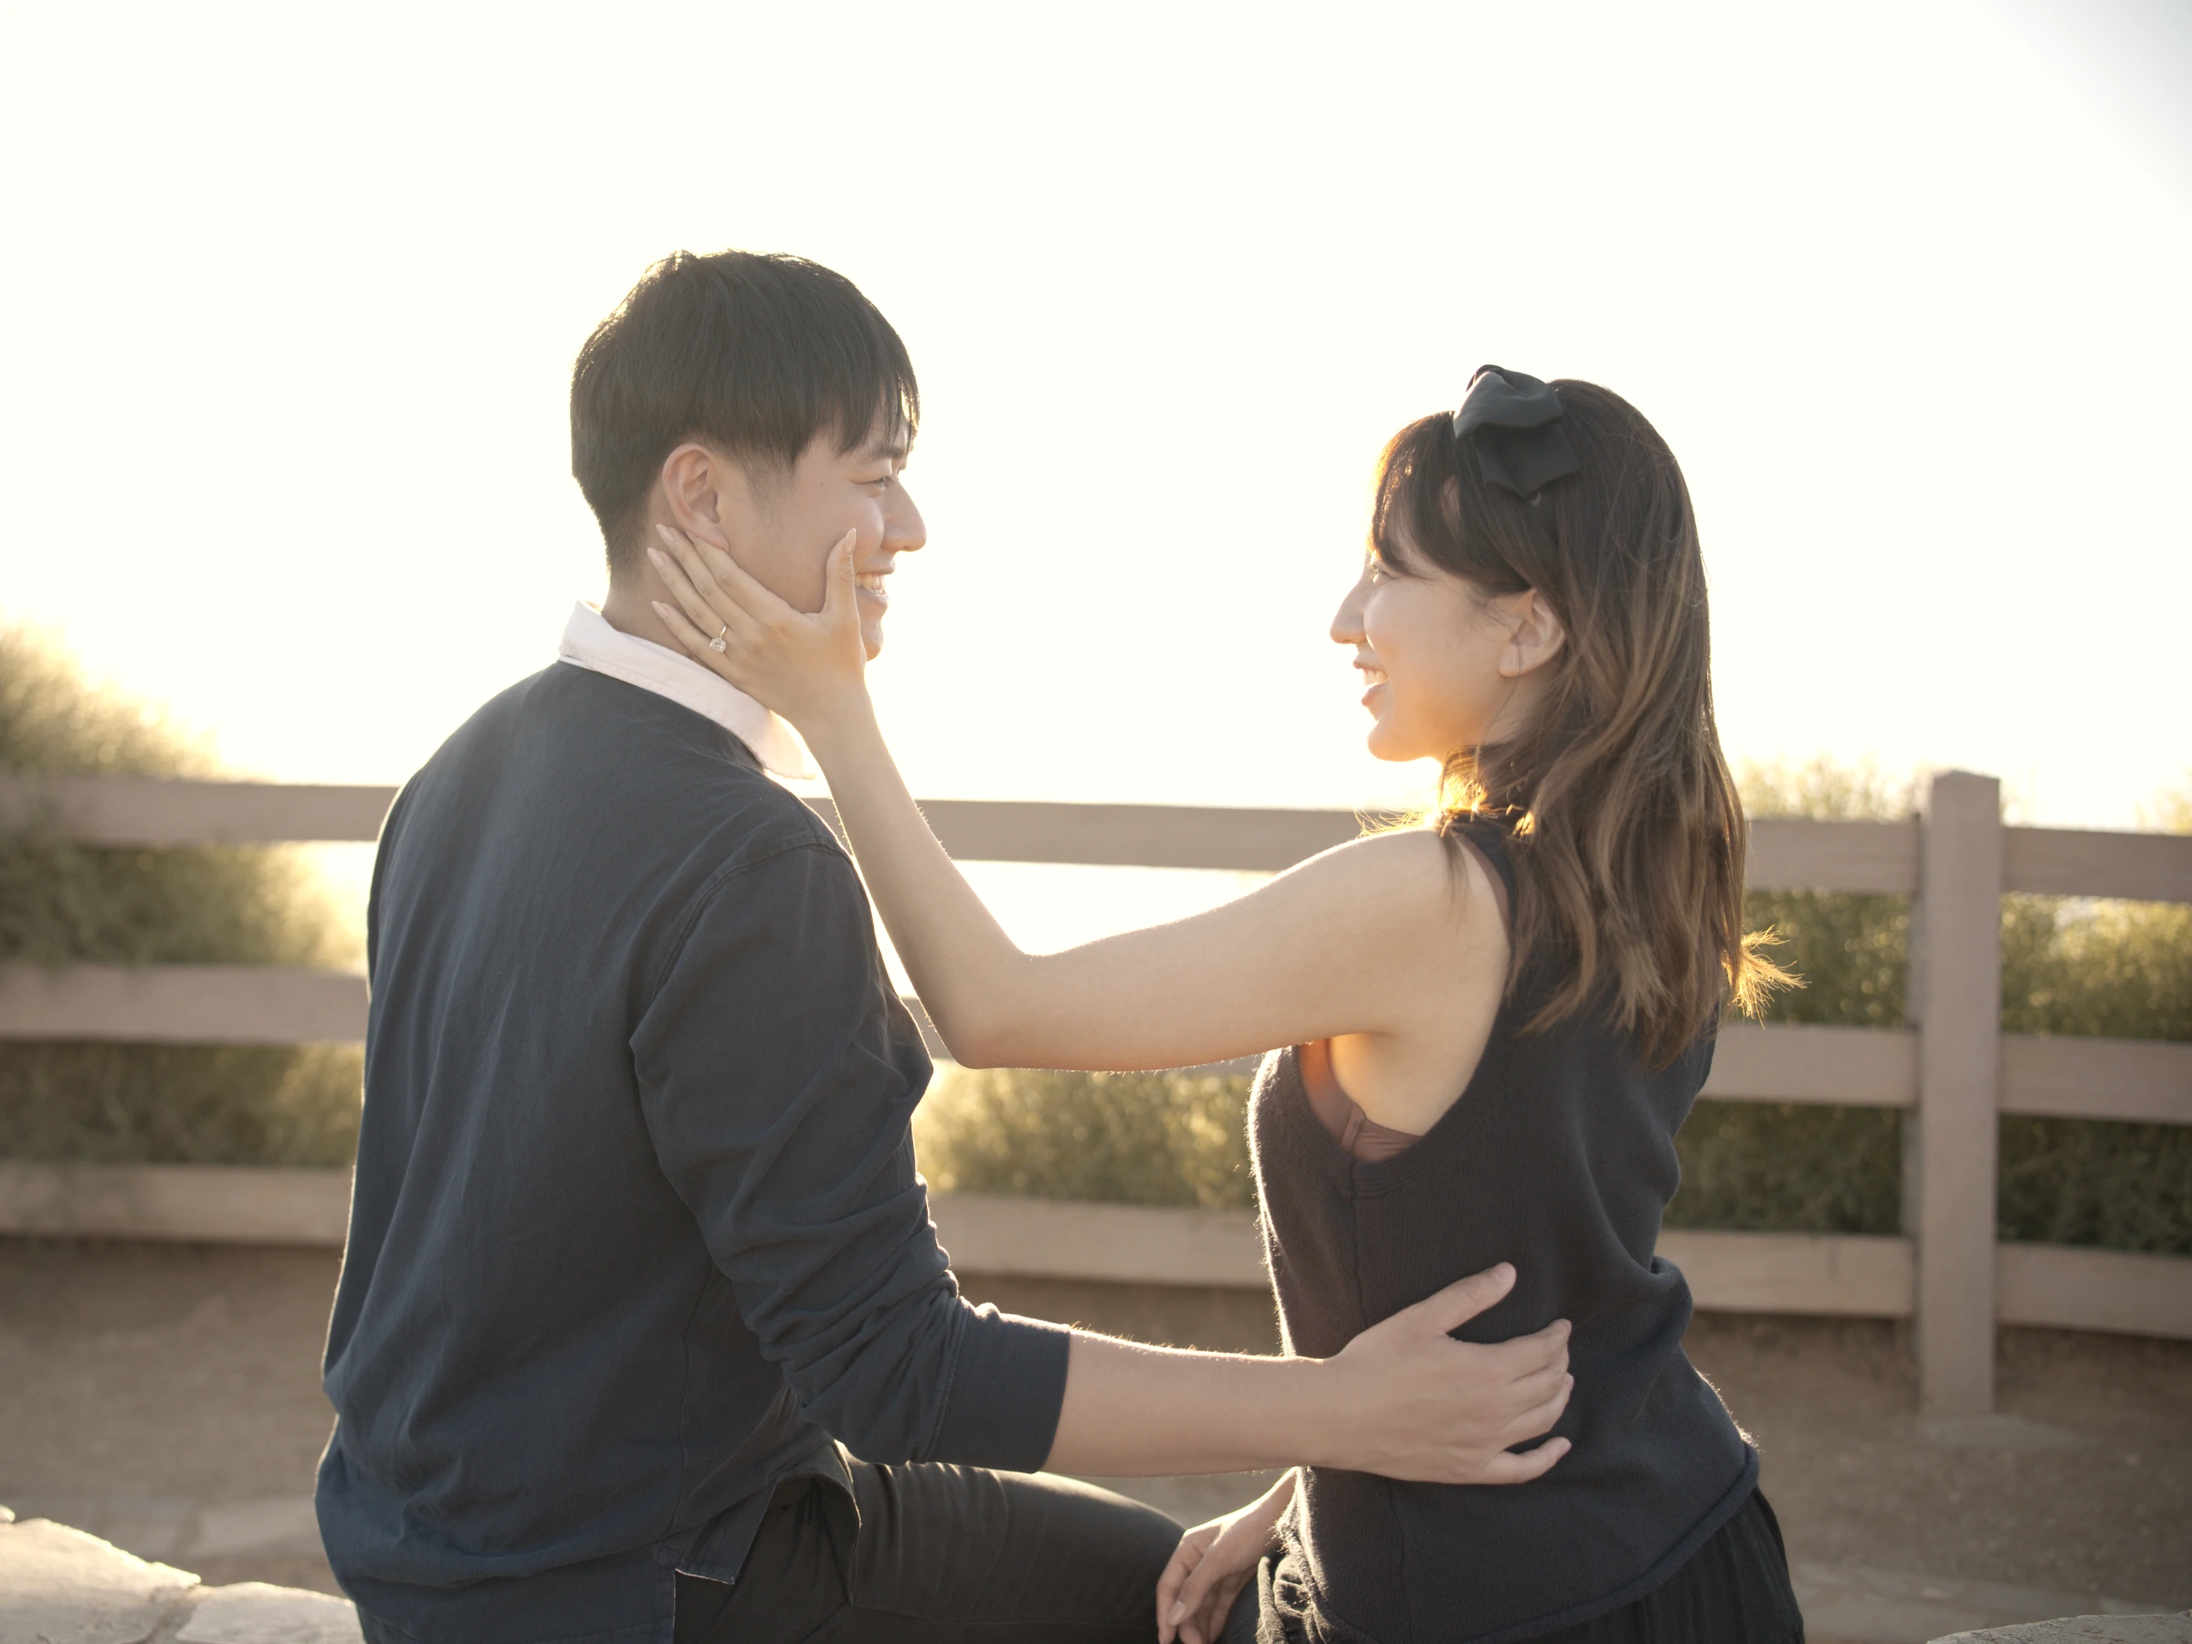
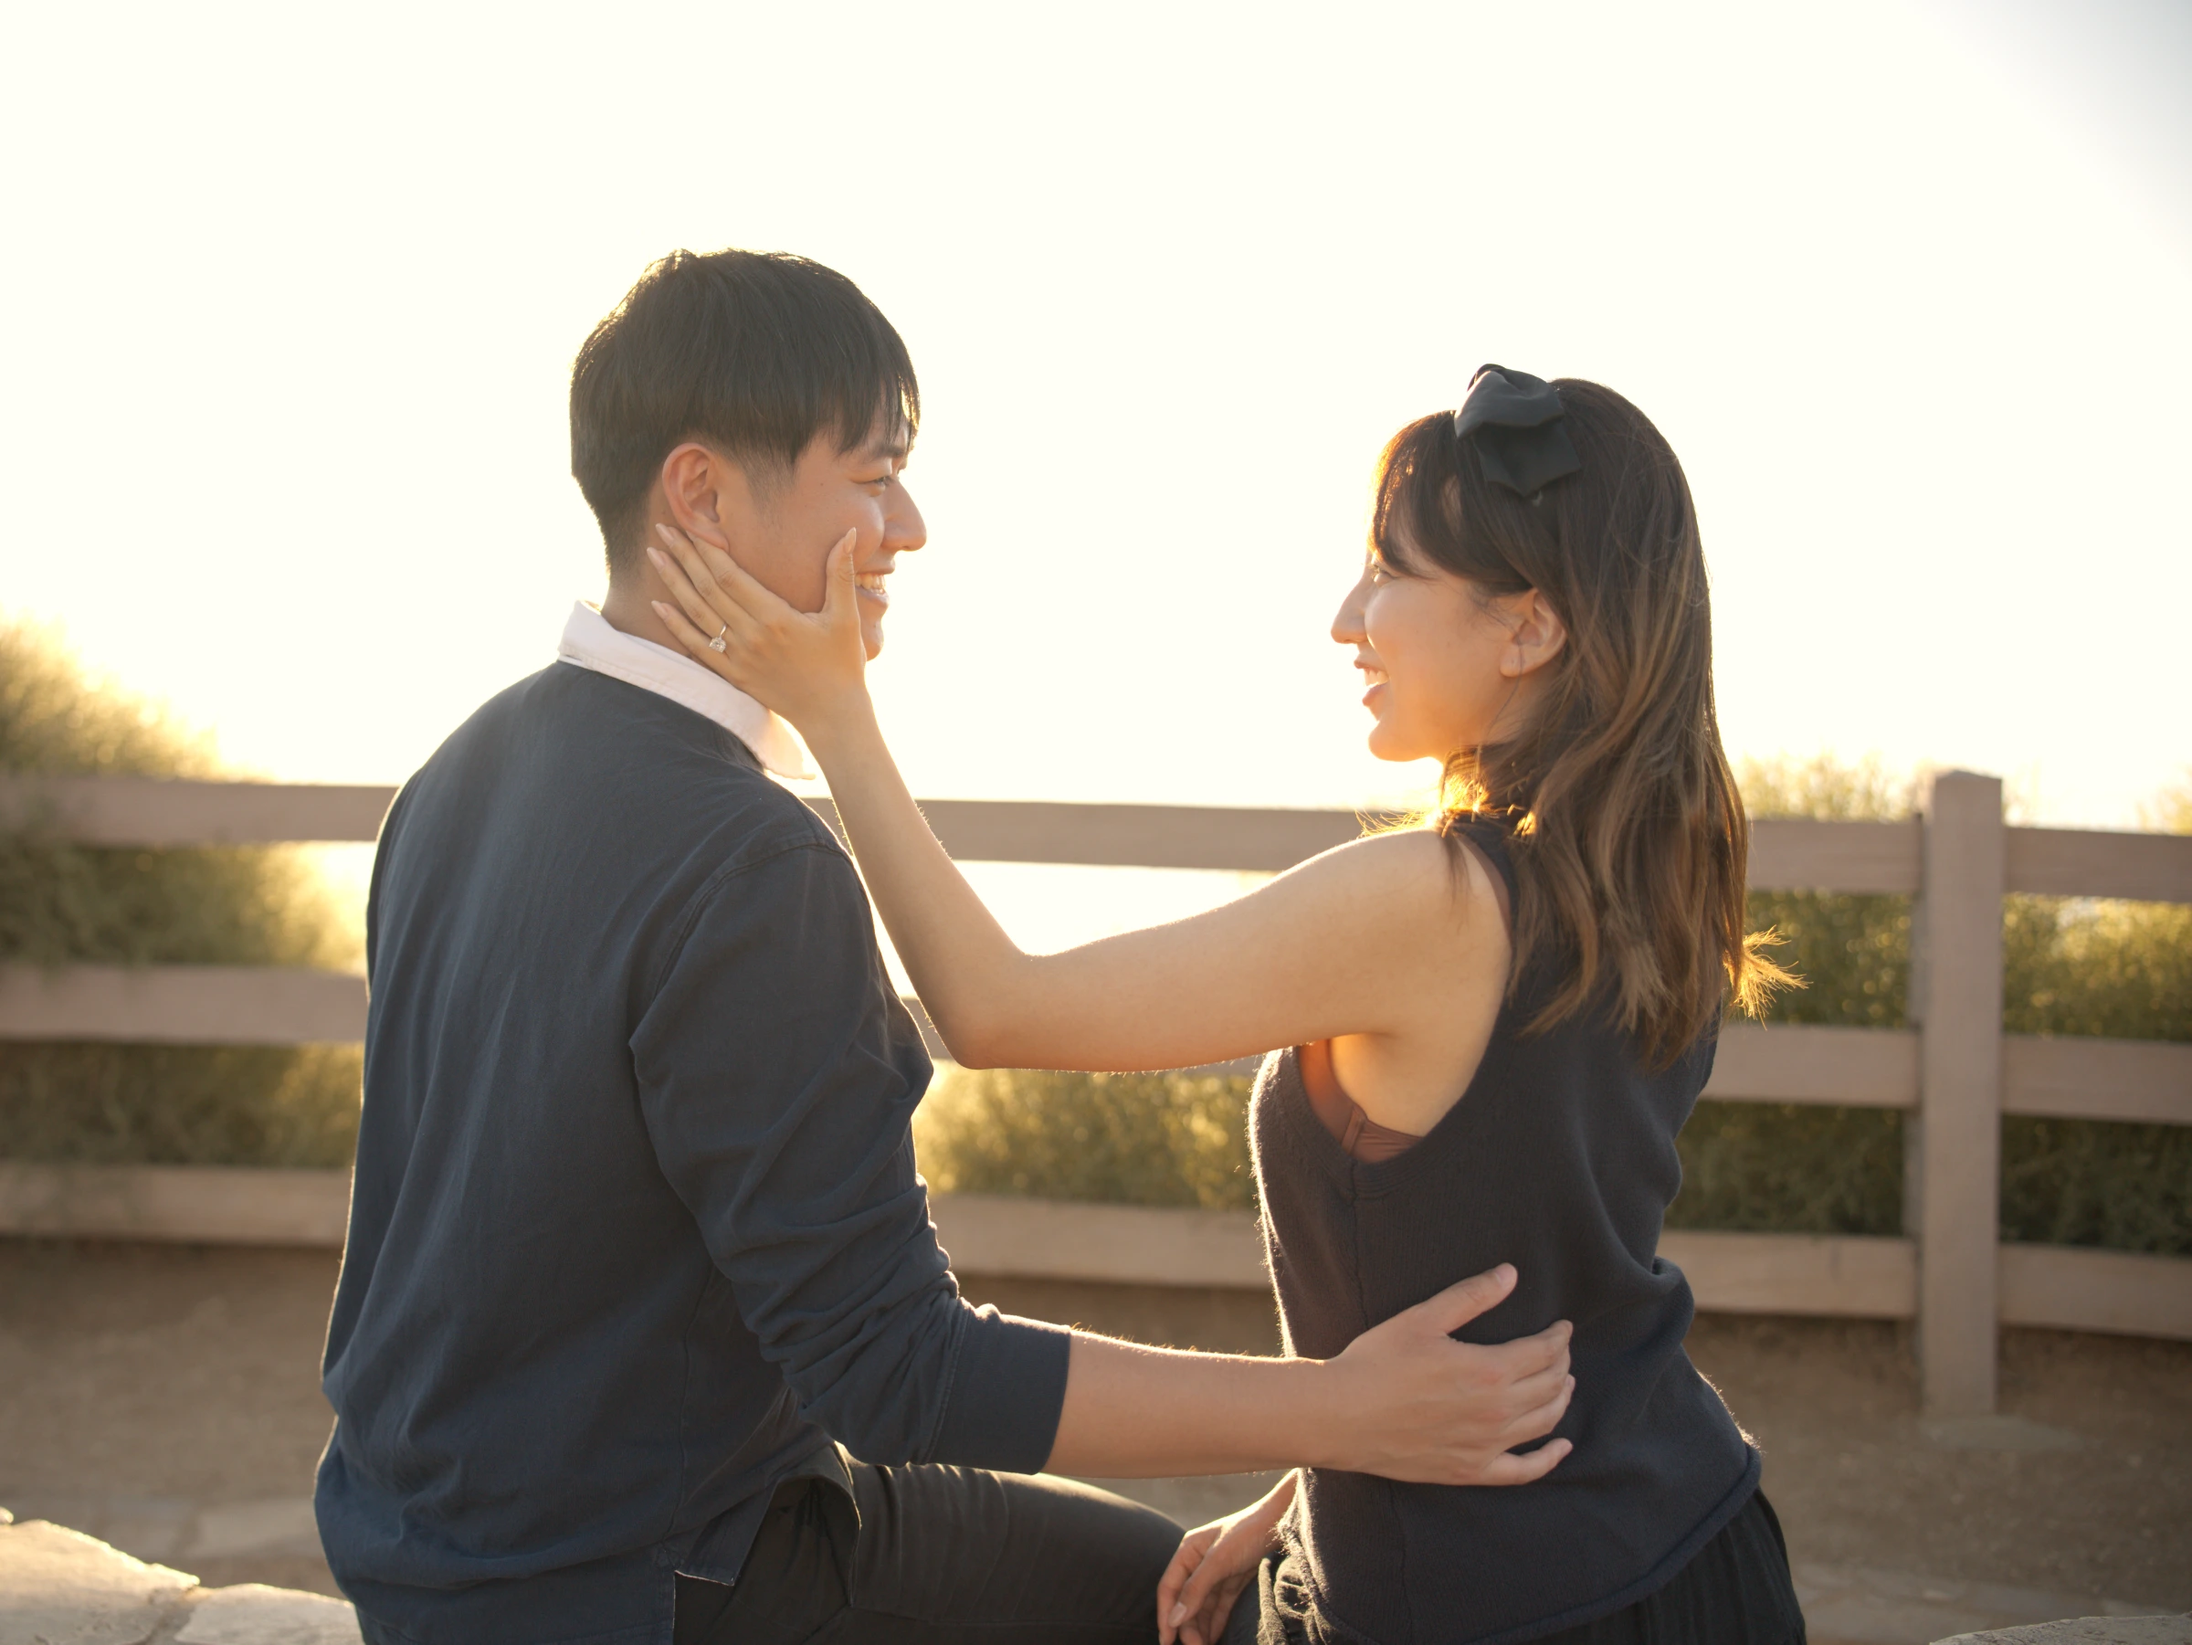
Publish 783b85e

diff --git a/index.html b/index.html
@@ -110,7 +110,7 @@
     <section id="home" class="page" data-page="home" aria-label="Home">
       <div class="hero">
         <figure class="hero-photo">
-          <img src="assets/images/photos/hero-laughing-lighthouse.webp?v=raw1" alt="Claire and Paul hugging and laughing by the fence, with the Point Vicente lighthouse behind them" class="zoomable" width="2400" height="1600" fetchpriority="high">
+          <img src="assets/images/photos/hero-laughing-lighthouse.webp?v=raw2" alt="Claire and Paul hugging and laughing by the fence, with the Point Vicente lighthouse behind them" class="zoomable" width="2400" height="1600" fetchpriority="high">
         </figure>
         <h1 class="names"><span>Claire</span> <span class="plus">+</span> <span>Paul</span></h1>
         <p class="date">Sunday, March 7, 2027</p>
@@ -150,7 +150,7 @@
     <section id="story" class="page" data-page="story" aria-label="Our story" hidden>
       <div class="block story">
         <h2>How it started</h2>
-        <figure class="story-photo"><img src="assets/images/photos/early-days-2021.webp?v=raw1" alt="Claire and Paul smiling cheek to cheek in a car during the early days of their relationship" class="zoomable" loading="lazy"><figcaption class="photo-credit">Us in 2021.</figcaption></figure>
+        <figure class="story-photo"><img src="assets/images/photos/early-days-2021.webp?v=raw2" alt="Claire and Paul smiling cheek to cheek in a car during the early days of their relationship" class="zoomable" loading="lazy"><figcaption class="photo-credit">Us in 2021.</figcaption></figure>
         <p>Who would've thought that a little dating app called Hinge would lead us all the way to the altar? Our story began in January 2021, during a time when the world was a little upside down! Claire was living in California, Paul was in Texas, and somehow, despite being over a thousand miles apart, they found each other. What started as a few messages on Hinge quickly turned into hours of conversations, late nights on Discord, and slowly becoming each other's favorite person to talk to.</p>
         <p>With COVID and Paul's mom battling lung cancer at the time, meeting in person wasn't exactly easy. But even from a distance, Paul always found ways to make Claire feel special. Before they had even met, he asked her to be exclusive by surprising her with champagne and dinner delivered to her door. (Yes, he was already setting the bar pretty high.)</p>
         <p>A few months later, Paul bought Claire a plane ticket to Lubbock, Texas, so they could finally meet in person. And let's just say Paul was a little nervous. When Claire finally saw him at the airport, he was exactly the same person she'd gotten to know online... just a lot taller! Meanwhile, Paul was so nervous that while standing at baggage claim, he asked Claire, "Did you check in your bags?" even though she had already landed. HAHAHA.</p>
@@ -162,7 +162,7 @@
         <p>Looking back, we truly believe God brought us together at just the right time. What started with a simple swipe grew into a love built on patience, faith, countless miles, and a whole lot of laughter.</p>
         <p>And after all those years of saying goodbye, we finally get today "I do."</p>
         <p>We can't wait to celebrate this next chapter with all of you!</p>
-        <figure class="story-photo"><img src="assets/images/photos/heart.webp?v=raw1" alt="Claire and Paul making a heart with their arms against the sunset" class="zoomable"></figure>
+        <figure class="story-photo"><img src="assets/images/photos/heart.webp?v=raw2" alt="Claire and Paul making a heart with their arms against the sunset" class="zoomable"></figure>
       </div>
     </section>
 
@@ -192,12 +192,12 @@
       <div class="block block-wide">
         <h2>The day he asked</h2>
         <div class="gallery">
-          <img src="assets/images/photos/proposal.webp?v=raw1" alt="Paul on one knee as Claire holds her bouquet" class="zoomable wide">
-          <img src="assets/images/photos/ring.webp?v=raw1" alt="Claire's engagement ring" class="zoomable">
-          <img src="assets/images/photos/hug.webp?v=raw1" alt="Claire hugging Paul by the lighthouse" class="zoomable">
-          <img src="assets/images/photos/cheek.webp?v=raw1" alt="Claire touching Paul's cheek at sunset" class="zoomable">
-          <img src="assets/images/photos/golden.webp?v=raw1" alt="Claire and Paul in the golden light" class="zoomable">
-          <img src="assets/images/photos/bouquet.webp?v=raw1" alt="Claire's bouquet waiting under a tree by the ocean" class="zoomable wide">
+          <img src="assets/images/photos/proposal.webp?v=raw2" alt="Paul on one knee as Claire holds her bouquet" class="zoomable wide">
+          <img src="assets/images/photos/ring.webp?v=raw2" alt="Claire's engagement ring" class="zoomable">
+          <img src="assets/images/photos/hug.webp?v=raw2" alt="Claire hugging Paul by the lighthouse" class="zoomable">
+          <img src="assets/images/photos/cheek.webp?v=raw2" alt="Claire touching Paul's cheek at sunset" class="zoomable">
+          <img src="assets/images/photos/golden.webp?v=raw2" alt="Claire and Paul in the golden light" class="zoomable">
+          <img src="assets/images/photos/bouquet.webp?v=raw2" alt="Claire's bouquet waiting under a tree by the ocean" class="zoomable wide">
         </div>
         <p class="photo-credit">Engagement photographs by Joe Chang.</p>
       </div>
